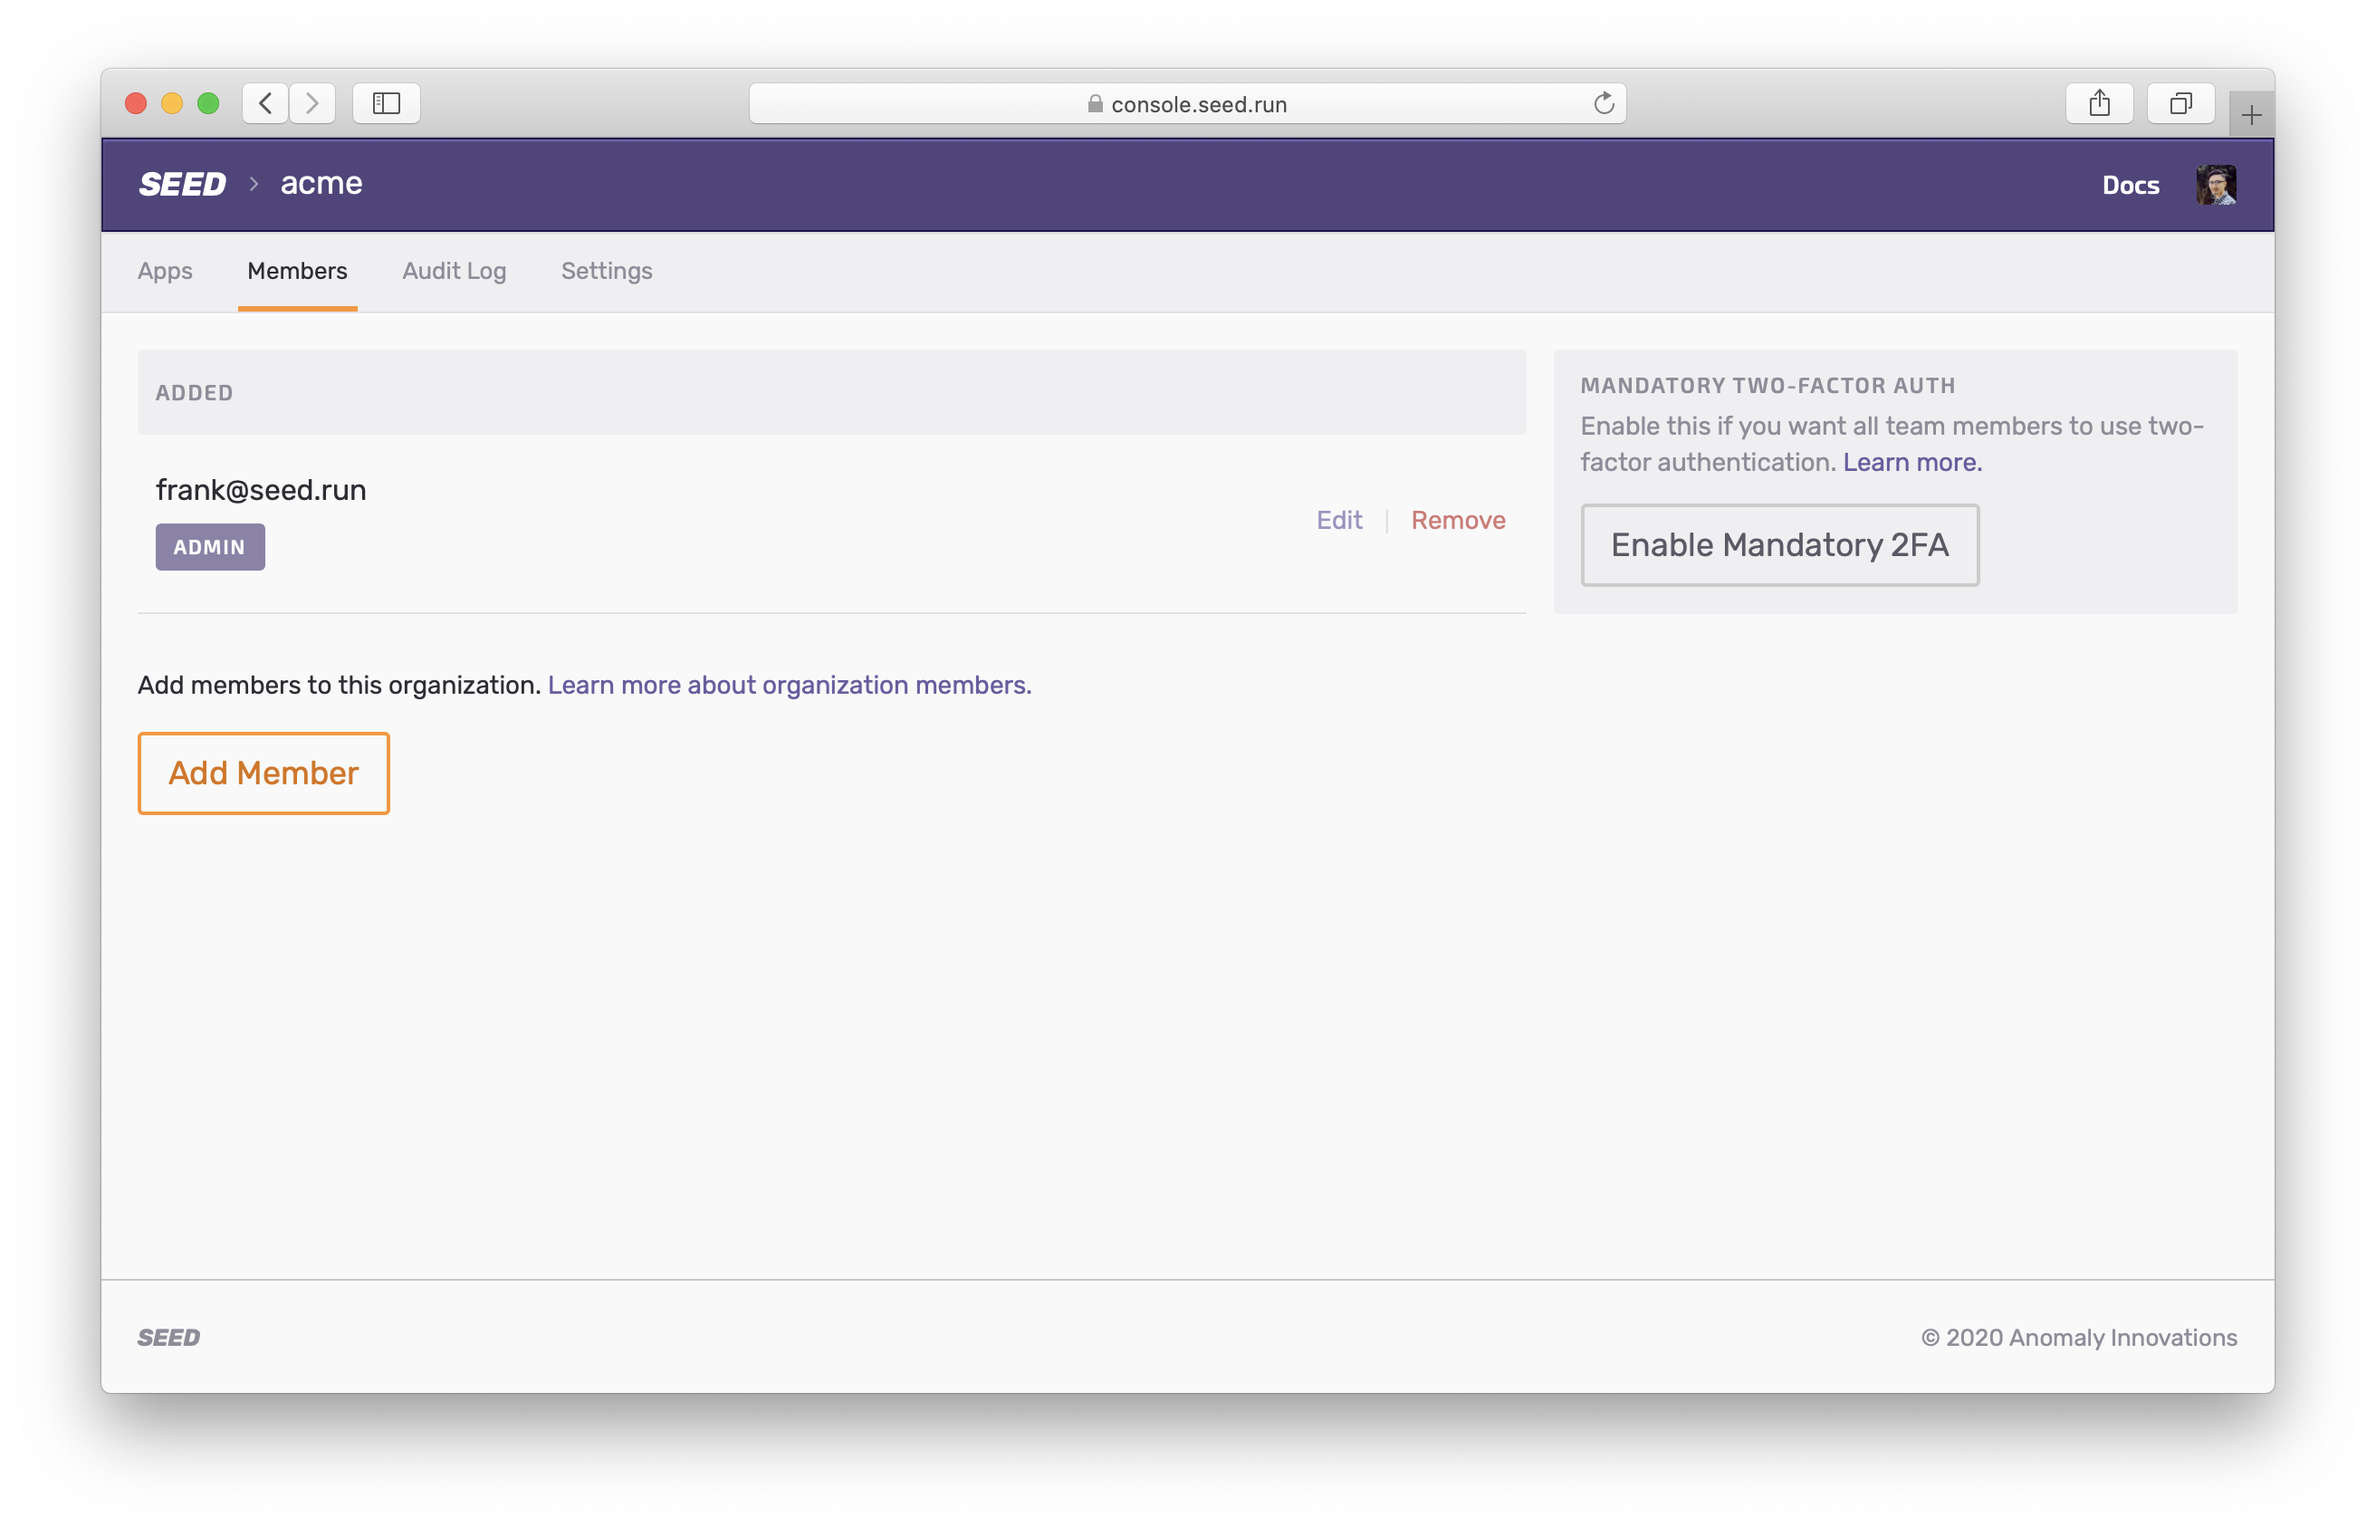
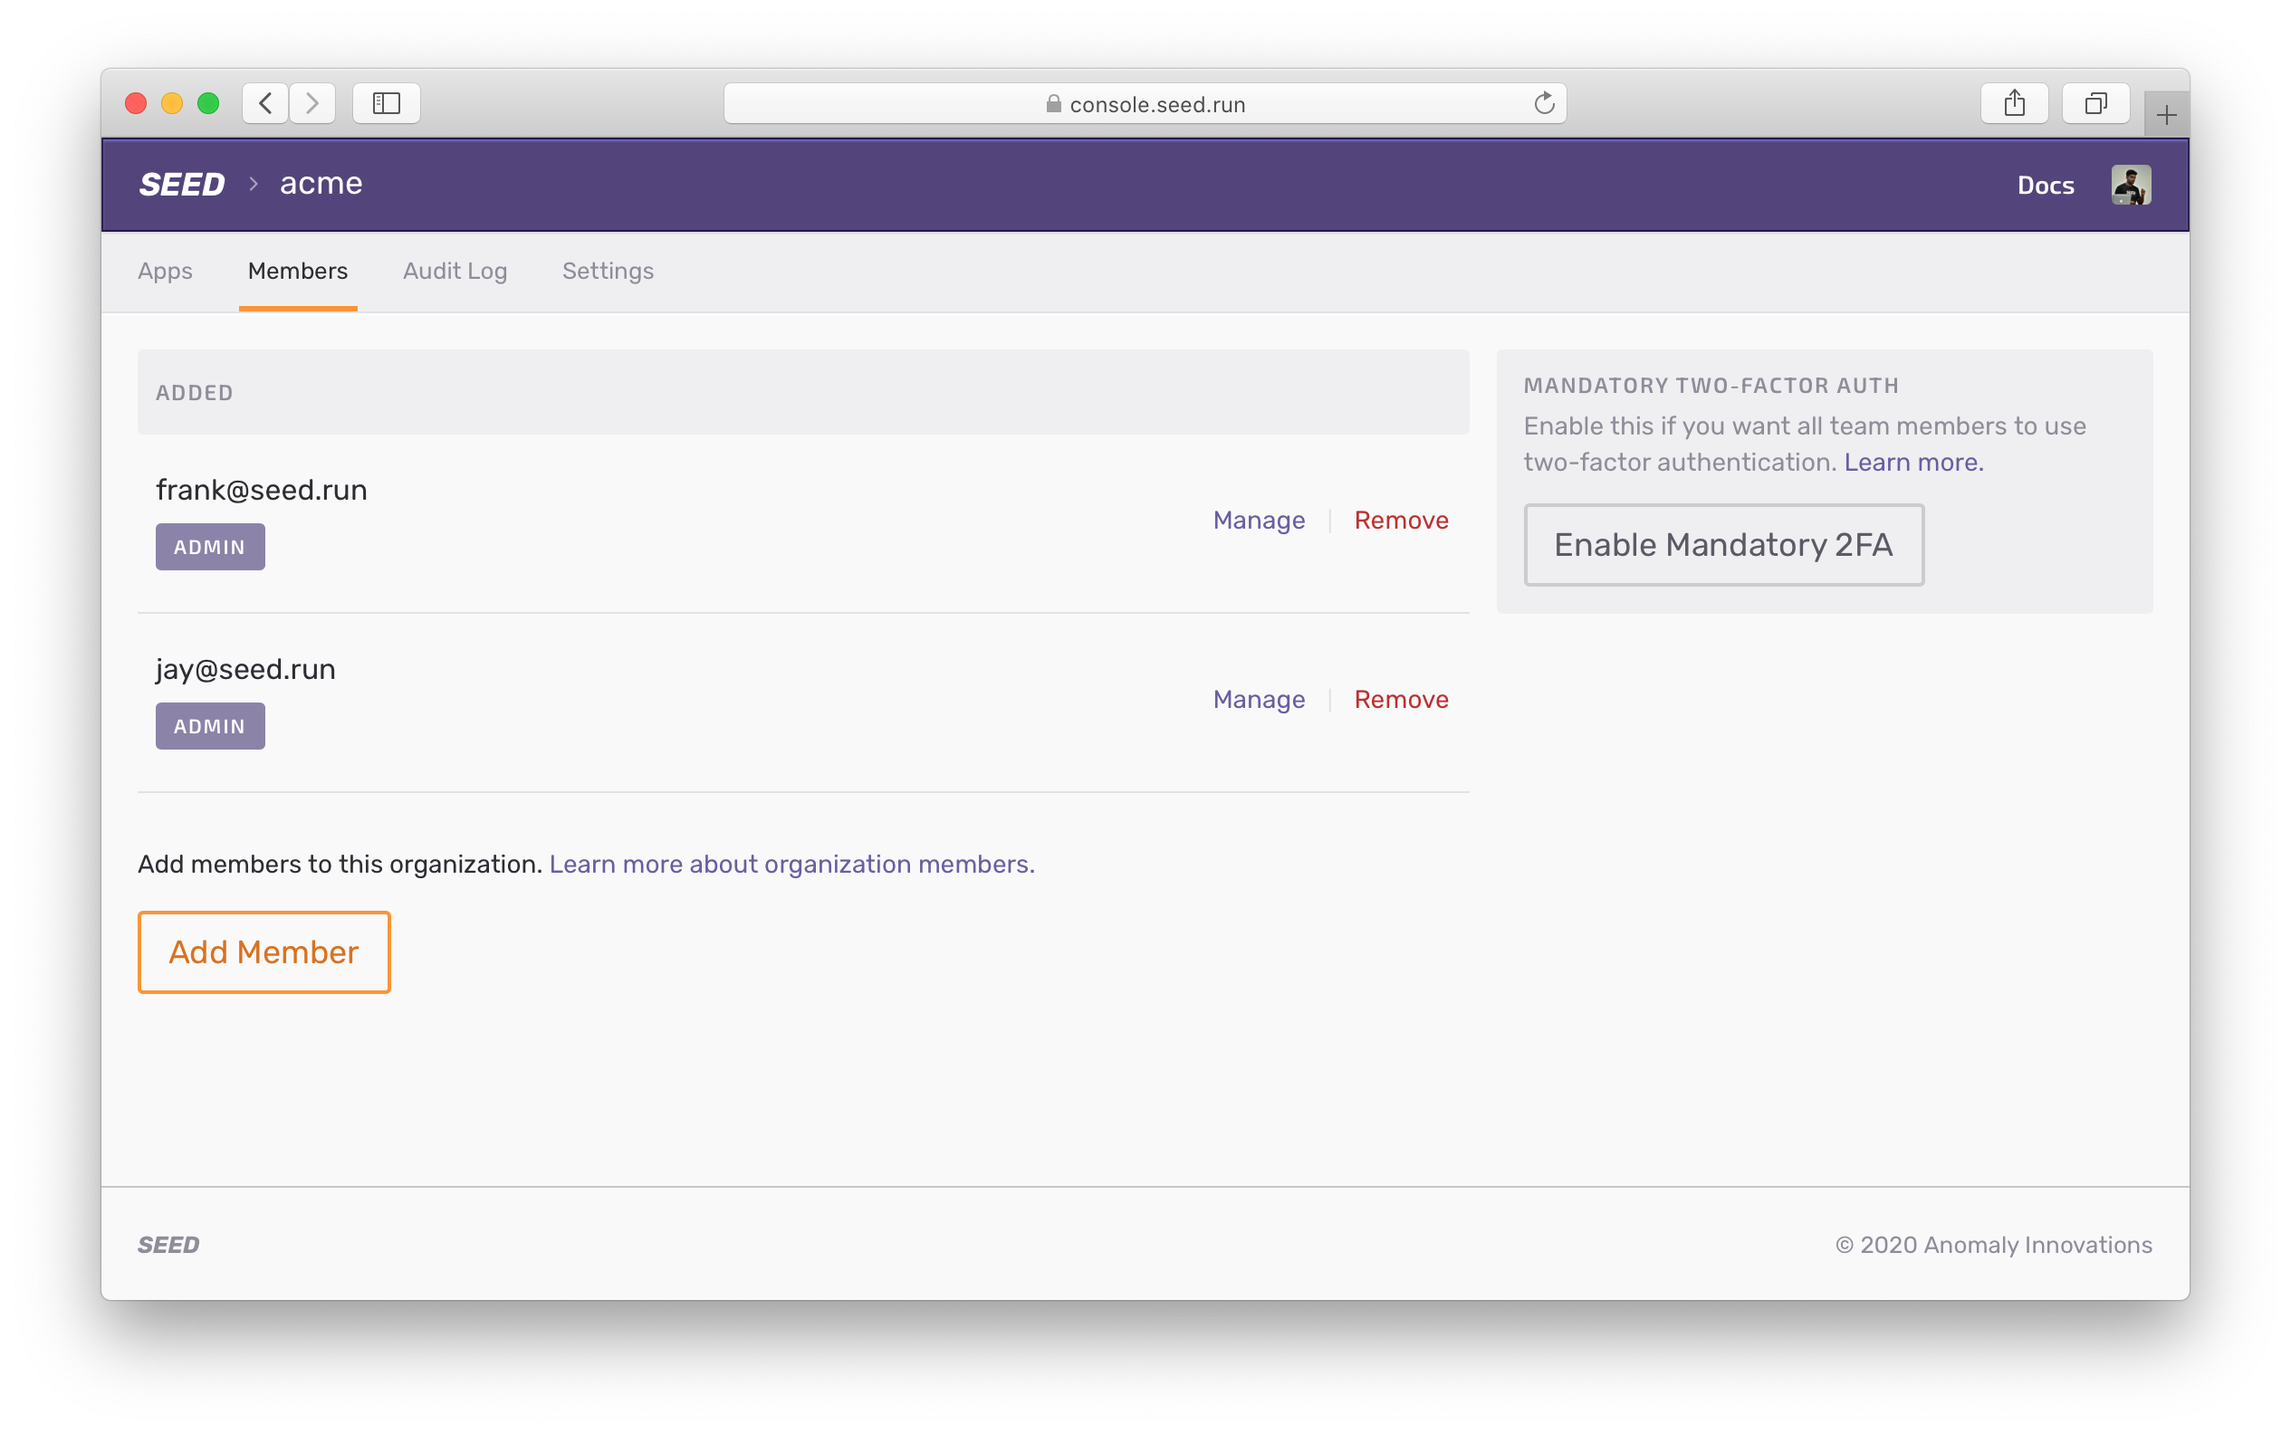
Blog post and docs for new app roles and Gmail button

diff --git a/_docs/adding-organization-members.md b/_docs/adding-organization-members.md
@@ -17,11 +17,33 @@ From the **Members** tab of your organization, you'll be able to add new members
 
 Add a member to the organization using their email address.
 
+![Adding new member to Seed](/assets/docs/adding-organization-members/adding-a-new-member-to-seed.png)
+
+If you are adding a member that doesn't have a Seed account, they'll be asked to create one **with the email address that you specify**.
+
+You can also hit **Edit** to change the role that is assigned to them.
+
 ![Fine-grained rbac in Seed](/assets/docs/adding-organization-members/fine-grained-rbac-in-seed.png)
 
-If you are adding a member that doesn't have a Seed account, they'll be asked to create one with the email address that you specify.
+### App Specific Roles
 
-You can also assign them a role while adding them to the organization.
+By default the member role applies to the entire organization. But you can modify the role for specific apps in your org. Use the **Add a specific role for an app** dropdown to select the app you want.
+
+![Select app for app specific role in Seed](/assets/docs/adding-organization-members/select-app-for-app-specific-role-in-seed.png)
+
+And hit **Add**.
+
+![Click add for app specific role in Seed](/assets/docs/adding-organization-members/click-add-for-app-specific-role-in-seed.png)
+
+Here you can modify the role you'd like to assign for this specific app.
+
+![Select role for app specific role in Seed](/assets/docs/adding-organization-members/select-role-for-app-specific-role-in-seed.png)
+
+Once selected, the app specific role **overrrides** the org role assigned.
+
+![App specific role selected in Seed](/assets/docs/adding-organization-members/app-specific-role-selected-in-seed.png)
+
+So for this example, the **Admin** role applies for the entire org and all the apps, except for the **my-serverless-app** app.
 
 ### Member Roles
 
@@ -54,7 +76,7 @@ And since you cannot promote _to_ development stages, there is no promote role f
 
 ### Changing Roles
 
-Once a member has been invited or added to the organization, you still have the ability to go in and change their roles.
+Once a member has been invited or added to the organization, you still have the ability to go in and change their roles by hitting the **Manage** button.
 
 ![Edit member roles](/assets/docs/adding-organization-members/edit-member-roles.png)
 

diff --git a/_posts/2020-09-02-adding-app-specific-roles.md b/_posts/2020-09-02-adding-app-specific-roles.md
@@ -1,0 +1,22 @@
+---
+layout: post
+title: Adding App Specific Roles
+categories: news
+author: jack
+---
+
+Seed now allows you to add App Specific Roles. This allows you to restrict access to certain sensitive apps in your org.
+
+![App specific role based access control in Seed](/assets/blog/adding-app-specific-roles/app-specific-role-based-access-control-in-seed.png)
+
+By default, member roles in Seed apply to all the apps in your organization. However, there might be cases where you want to restrict access to certain apps. It might be because it's deploying some key pieces of your infrastructure.
+
+Now you can do so by adding app specific roles. You'll be required to select the app and the modified role you want applied.
+
+![Selecting app specific role in Seed](/assets/blog/adding-app-specific-roles/selecting-app-specific-role-in-seed.png)
+
+Note that, the app specific role overrides the default role you have assigned for the org.
+
+Role-based access controls (RBAC) are a great way to secure access to your production environments. And App Specific Roles now allow you to extend that to specific apps in your org as well. For further details, check out [our doc on adding members to your organization]({% link _docs/adding-organization-members.md %}).
+
+_RBAC and App Specific Roles are a part of our Enterprise plan. To find out more, or to upgrade your plan; [head over to our pricing page]({% link pricing.html %})_.

diff --git a/_posts/2020-09-03-gmail-actions-for-issues.md b/_posts/2020-09-03-gmail-actions-for-issues.md
@@ -1,0 +1,16 @@
+---
+layout: post
+title: Gmail Actions for Issues
+categories: news
+author: jack
+---
+
+We've got a cool little addition coming to your Gmail Inbox. You can now access the issue details without having to open the email in your inbox.
+
+![Gmail Actions for Issues in Seed](/assets/blog/gmail-actions-for-issues/gmail-actions-for-issues-in-seed.png)
+
+Seed monitors your Lambda functions in real-time. And it'll send you an email notification if something goes wrong. Actions in Gmail allow you to access the issue details without having to open the email. Just hit the **View in Seed** button.
+
+![Issue details page in Seed](/assets/blog/gmail-actions-for-issues/issue-details-page-in-seed.png)
+
+If you don't see these buttons in your Gmail, you'll need to go to the Gmail Settings > General > And select Disable hover actions.
